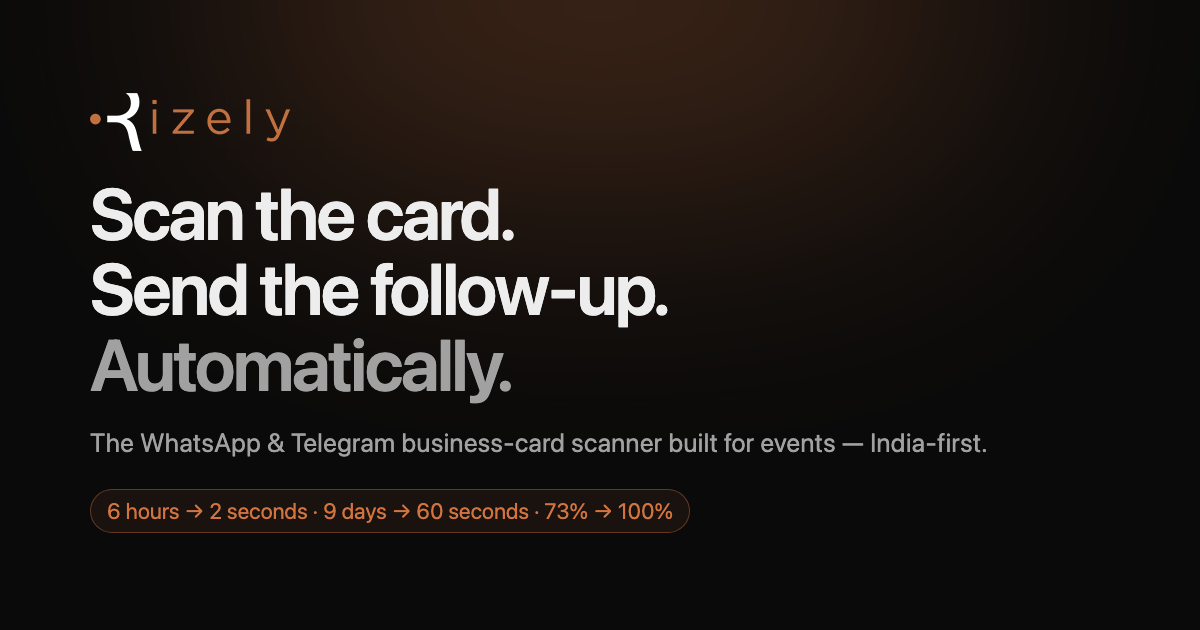
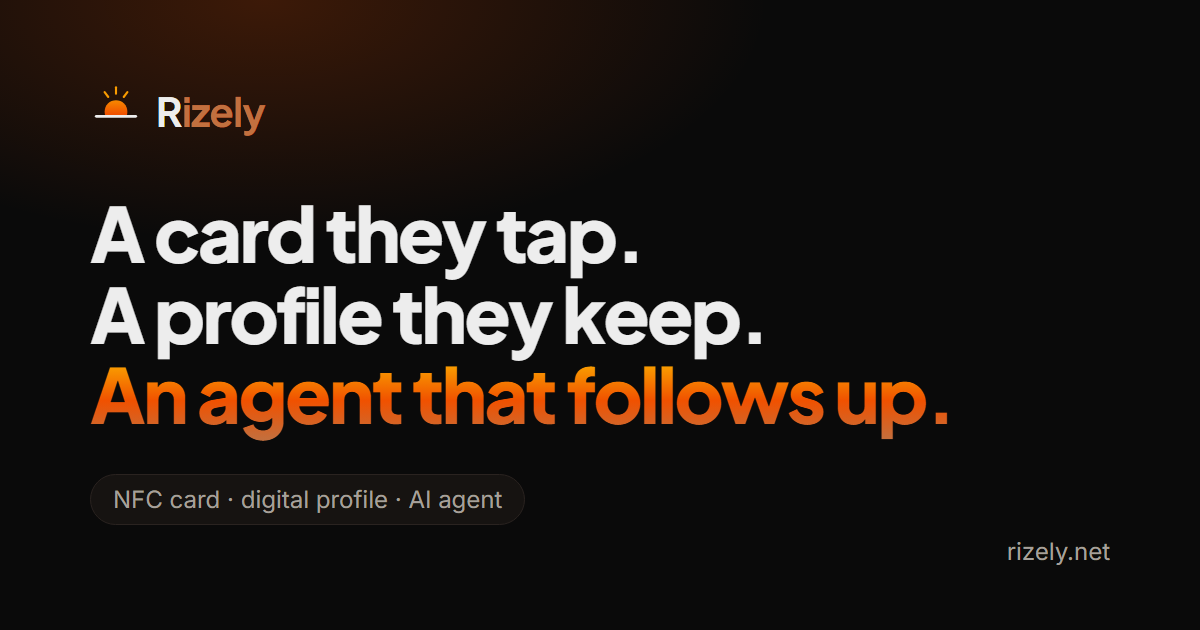
W-31: render the share image from the hero headline, drop the banned stats
app/opengraph-image.png is what every share of the homepage shows. It
still read "Scan the card. Send the follow-up. Automatically.", called
Rizely "India-first", and carried the 01 §6 banned strip
"6 hours → 2 seconds · 9 days → 60 seconds · 73% → 100%". It was a
hand-made PNG with no source, so it outlived the copy it came from.

It is now rendered from scripts/og/og.html (the hero headline, the
sunrise logo, no numbers) by scripts/og/render.mjs, so the next change
is an edit, not a new PNG. Tracked as W-31.

diff --git a/scripts/og/og.html b/scripts/og/og.html
@@ -1,0 +1,19 @@
+<!doctype html><html><head><meta charset="utf-8">
+<!-- Source for app/opengraph-image.png. Keep it to the hero headline: no numbers, no "first", no "automatically" (handoff/01 §6). Render with scripts/og/render.mjs. -->
+<link href="https://fonts.googleapis.com/css2?family=Inter:wght@400;500&family=Plus+Jakarta+Sans:wght@700;800&display=block" rel="stylesheet">
+<style>
+*{margin:0;box-sizing:border-box}
+body{width:1200px;height:630px;background:#0a0a0a;color:#ededed;font-family:Inter,sans-serif;position:relative;overflow:hidden}
+.glow{position:absolute;inset:0;background:radial-gradient(ellipse 60% 55% at 22% 0%,rgba(240,81,0,.22),transparent 70%)}
+.wrap{position:absolute;left:90px;top:84px;right:90px}
+.logo{display:flex;align-items:center;gap:14px;font-family:'Plus Jakarta Sans';font-weight:700;font-size:40px;letter-spacing:-.02em}
+.logo b{color:#c2703f;font-weight:700}
+h1{font-family:'Plus Jakarta Sans';font-weight:800;font-size:76px;line-height:1.06;letter-spacing:-.035em;margin-top:56px}
+.s{background:linear-gradient(0deg,#c2703f 0%,#f05100 42%,#f99c00 78%,#fcbb00 100%);-webkit-background-clip:text;background-clip:text;color:transparent}
+.pill{display:inline-block;margin-top:40px;font-size:24px;color:#a6a09b;border:1px solid #2a2320;background:#161311;border-radius:999px;padding:10px 22px}
+.url{position:absolute;right:90px;bottom:64px;font-size:24px;color:#a6a09b}
+</style></head><body><div class="glow"></div><div class="wrap">
+<div class="logo"><svg width="52" height="52" viewBox="0 0 64 64" fill="none"><defs><linearGradient id="g" x1="0" y1="64" x2="0" y2="0" gradientUnits="userSpaceOnUse"><stop offset="0" stop-color="#C2703F"/><stop offset=".42" stop-color="#F05100"/><stop offset=".78" stop-color="#F99C00"/><stop offset="1" stop-color="#FCBB00"/></linearGradient><clipPath id="c"><rect width="64" height="39"/></clipPath></defs><g stroke="#F99C00" stroke-width="2.6" stroke-linecap="round"><line x1="32" y1="4" x2="32" y2="12"/><line x1="18" y1="10" x2="22.5" y2="16"/><line x1="46" y1="10" x2="41.5" y2="16"/></g><g clip-path="url(#c)"><circle cx="32" cy="34" r="14" fill="url(#g)"/></g><rect x="6" y="38" width="52" height="3.4" rx="1.7" fill="#ededed"/></svg><span>R<b>izely</b></span></div>
+<h1>A card they tap.<br>A profile they keep.<br><span class="s">An agent that follows up.</span></h1>
+<div class="pill">NFC card · digital profile · AI agent</div>
+</div><div class="url">rizely.net</div></body></html>

diff --git a/handoff/03-TRACKER.md b/handoff/03-TRACKER.md
@@ -188,6 +188,14 @@ your logo… you approve the design before print" rather than pick-one-of-102. `
 *Done when:* Ankush says which is true, and every price, pack and material on the page matches
 the shop line for line.
 
+**W-31 · The social share image carried the banned stats.** `app/opengraph-image.png`, which
+every share of the homepage shows, read "Scan the card. Send the follow-up. Automatically.",
+"India-first", and the `01` §6 strip "6 hours → 2 seconds · 9 days → 60 seconds · 73% → 100%".
+It was a hand-made PNG with no source, so it outlived the copy it came from.
+> **Fixed in code, 27 Oct.** It is now rendered from `scripts/og/og.html` (the hero headline,
+> no numbers) by `scripts/og/render.mjs`. Edit the HTML and re-render; never hand-edit the PNG.
+> Check the preview with a link-preview tool once it is deployed, since platforms cache it.
+
 #### P1
 
 **W-16 · The personas section hard-codes dollars.** `components/personas.tsx:27` and `:35` say

diff --git a/docs/HANDOVER.md b/docs/HANDOVER.md
@@ -158,7 +158,7 @@ app/
   page.tsx              homepage + homepage-only product/FAQ JSON-LD
   sitemap.ts            generated sitemap, includes blog posts
   icon.png              favicon (the Rizely mark)
-  opengraph-image.png   1200x630 social card, brand baked into pixels
+  opengraph-image.png   1200x630 social card, rendered from scripts/og/og.html
   blogs/                blog listing and posts
   privacy/, terms/      legal pages
 components/
